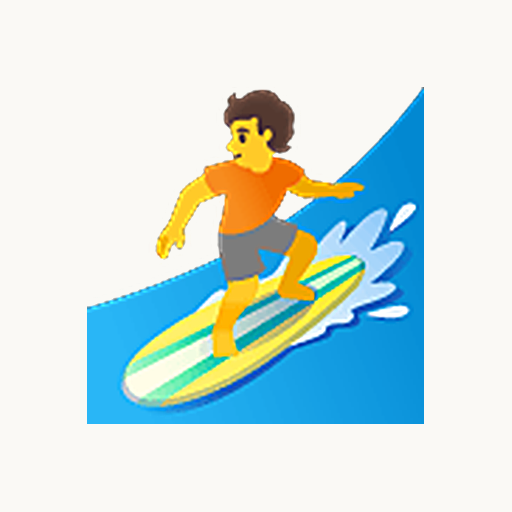
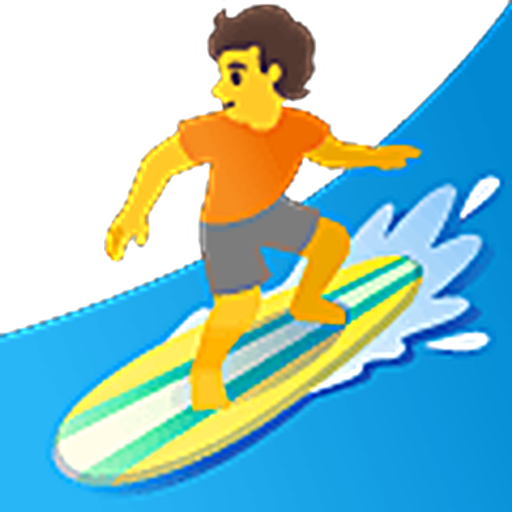
Иконка — чистый 🏄 во всё полотно, как в фавиконе
Кремовый фон и поля убраны: эмодзи занимает всё полотно, фон прозрачный —
ровно как в SVG-фавиконе. В манифесте остались два размера без maskable:
у прозрачной иконки нет фона, под маску её отдавать нечего. Кеш поднят до v17.

Claude-Session: https://claude.ai/code/session_015w6iDUZ8GWjkctjsFcG7Gd

diff --git a/sw.js b/sw.js
@@ -1,5 +1,5 @@
-// Surf PWA Service Worker v16
-var CACHE = 'surf-v16';
+// Surf PWA Service Worker v17
+var CACHE = 'surf-v17';
 var ASSETS = [
   './',
   './index.html',
